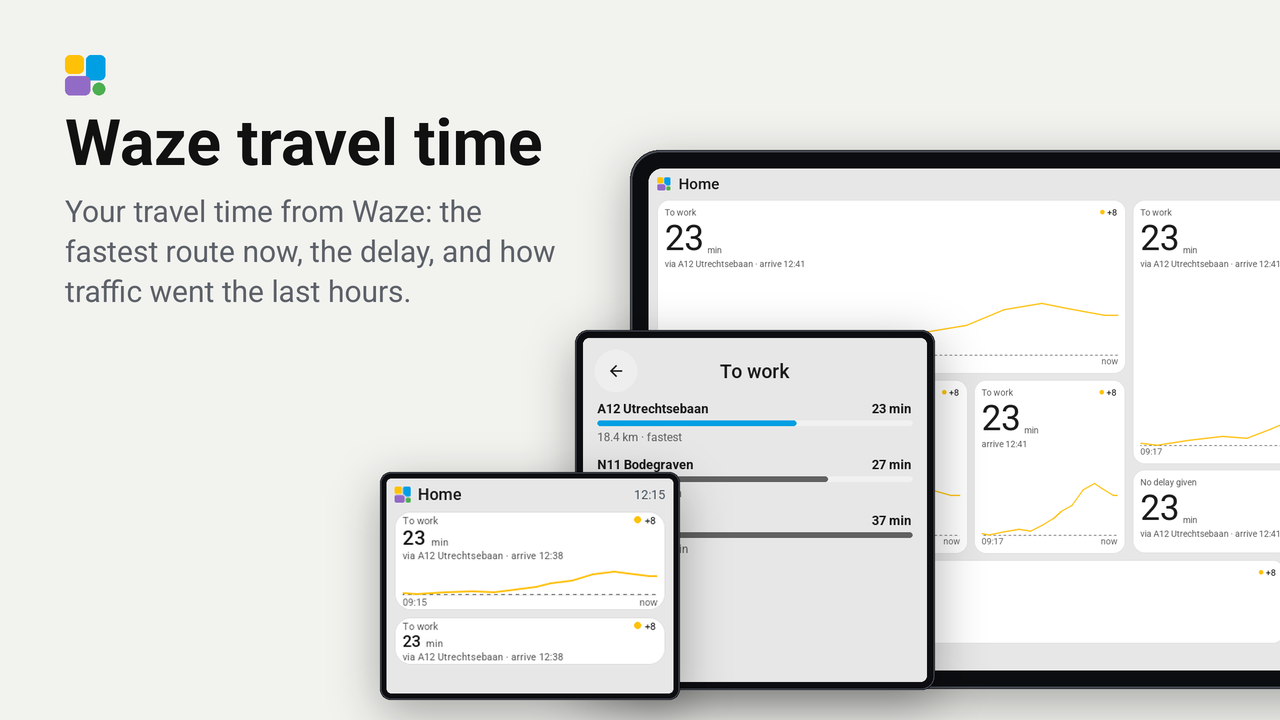
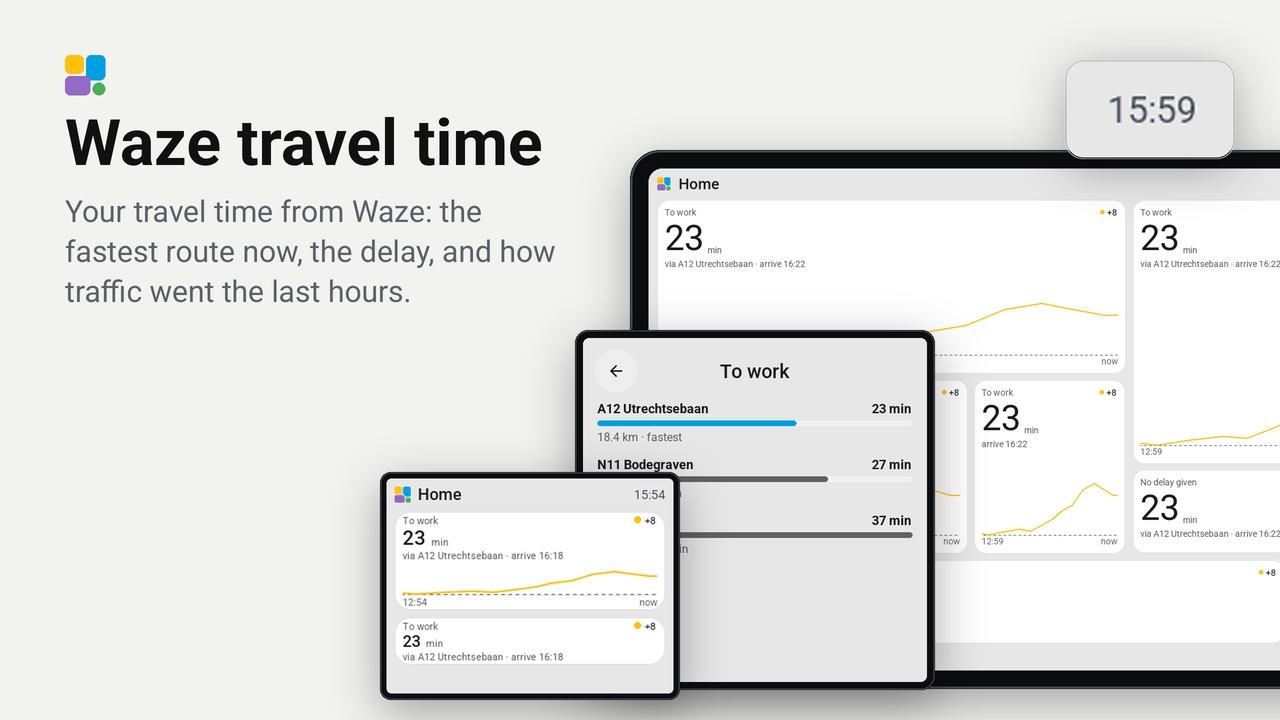
0.2.0: the travel time in the top bar
- A top bar item "Travel time": "23 min", or "23 min +8" above the usual
  time, the car green, amber or red. It reads the sensor chosen as the new
  input `sensor` through a homeassistant sensor of plugin.yaml.
- The usual time for it is a template number ("Waze usual time"), a
  setting in the app and a row on the screen's settings page.
- The card makes its rows in open() and fills them when Waze answers
  (FIRMWARE_API.md, Rules, 7).
- The card's fallback asks in the tile's region, not "eu".
- attributes: [cloud] with a privacy section: Home Assistant sends the
  trip's two ends to Waze.

diff --git a/components/waze_traveltime/waze_traveltime.cpp b/components/waze_traveltime/waze_traveltime.cpp
@@ -70,6 +70,8 @@ class TravelTile : public tessera::Tile, public Asker {
     hours_ = std::clamp(static_cast<int>(lroundf(c.options["hours"] | 3.0f)), 0, 8);  // 3 or 3.0, as the app kept it
     const char *region = c.options["region"] | "eu";
     snprintf(region_, sizeof region_, "%s", region);
+    // The sensor's region for a card opened for it, also before its two ends came.
+    if (!entity_.empty()) plugin_->remember(entity_.c_str(), nullptr, nullptr, region_);
 
     const int body = ui::line_height(Font::BODY);
     // The line takes the lower part of a tile of two rows or more, its times under it.
@@ -384,6 +386,7 @@ class TravelTile : public tessera::Tile, public Asker {
   lv_obj_t *name_{}, *delta_{}, *dot_{}, *number_{}, *unit_{}, *info_{}, *graph_{}, *from_{}, *now_{};
 };
 
+
 // ---- The card: every route Waze offers right now, fastest first ----
 class RoutesCard : public tessera::Card, public Asker {
  public:
@@ -397,20 +400,47 @@ class RoutesCard : public tessera::Card, public Asker {
     note_ = ui::text(parent_, Font::BODY_LARGE, theme::MUTED);
     lv_obj_set_width(note_, width_);
     ui::set_text(note_, plugin_->text("waiting"));
-    // The trip of the sensor it was opened for, as its tiles told the plugin; else it waits for the sensor in on_state.
+
+    // A row per route, as many as fit, made now and hidden until the answer fills them: its name and time, a bar as
+    // long as the time, the distance and the difference.
+    const int title = ui::line_height(Font::TITLE), body = ui::line_height(Font::BODY), bar = ui::px(8);
+    const int gap = ui::px(ui::large() ? 6 : 4), step = title + gap + bar + gap + body + ui::px(ui::large() ? 18 : 10);
+    fit_ = std::clamp((height_ + step - title - gap - bar - gap - body) / step, 1, ROWS);
+    for (int i = 0; i < fit_; ++i) {
+      Row &r = row_[i];
+      const int y = i * step;
+      r.time = ui::label(parent_, Font::TITLE, theme::INK);
+      lv_obj_set_pos(r.time, width_, y);
+      r.name = ui::label(parent_, Font::TITLE, theme::INK);
+      lv_obj_set_pos(r.name, 0, y);
+      r.track = ui::block(parent_, theme::TRACK);
+      lv_obj_set_size(r.track, width_, bar);
+      lv_obj_set_pos(r.track, 0, y + title + gap);
+      r.fill = ui::block(parent_, theme::MUTED);
+      lv_obj_set_size(r.fill, bar, bar);
+      lv_obj_set_pos(r.fill, 0, y + title + gap);
+      r.detail = ui::label(parent_, Font::BODY, theme::MUTED);
+      lv_obj_set_width(r.detail, width_);
+      lv_obj_set_pos(r.detail, 0, y + title + gap + bar + gap);
+      show(r, false);
+    }
+
+    // The trip of the sensor it was opened for, as its tiles told the plugin; else it waits for the sensor in on_state,
+    // with the region of the tile that showed the sensor.
     const Trip *trip = plugin_->trip(c.entity ? c.entity : "");
-    if (trip) ask(trip->origin, trip->destination, trip->region);
+    if (trip) snprintf(region_, sizeof region_, "%s", trip->region);
+    if (trip && *trip->origin && *trip->destination) ask(trip->origin, trip->destination);
   }
 
   // The tile it was opened from: its sensor's two ends, when the plugin did not know them yet.
   void on_state(JsonObjectConst data) override {
     if (asked_) return;
     const char *origin = data["attributes"]["origin"] | "", *destination = data["attributes"]["destination"] | "";
-    if (*origin && *destination) ask(origin, destination, "eu");
+    if (*origin && *destination) ask(origin, destination);
   }
 
   void on_theme() override {
-    for (int i = 0; i < rows_; ++i) {
+    for (int i = 0; i < fit_; ++i) {
       Row &r = row_[i];
       ui::set_color(r.name, theme::INK);
       ui::set_color(r.time, theme::INK);
@@ -421,7 +451,7 @@ class RoutesCard : public tessera::Card, public Asker {
 
   // The answer of waze_travel_time.get_travel_times: {"routes": [{"duration", "distance", "name", ...}]}.
   void answer(JsonObjectConst message) override {
-    if (rows_) return;
+    if (filled_) return;
     if (!(message["ok"] | false)) {
       ui::set_text(note_, plugin_->text("failed"));
       return;
@@ -456,66 +486,60 @@ class RoutesCard : public tessera::Card, public Asker {
     }
     std::sort(routes, routes + n, [](const Route &a, const Route &b) { return a.minutes < b.minutes; });
     lv_obj_add_flag(note_, LV_OBJ_FLAG_HIDDEN);
+    filled_ = true;
 
-    // A row per route, as many as fit: its name and time, a bar as long as the time, the distance and the difference.
-    const int title = ui::line_height(Font::TITLE), body = ui::line_height(Font::BODY), bar = ui::px(8);
-    const int gap = ui::px(ui::large() ? 6 : 4), step = title + gap + bar + gap + body + ui::px(ui::large() ? 18 : 10);
-    const int fit = std::max(1, std::min(n, (height_ + step - title - gap - bar - gap - body) / step));
+    const int gap = ui::px(ui::large() ? 6 : 4), bar = ui::px(8);
     const float slowest = routes[n - 1].minutes;
-    for (int i = 0; i < fit; ++i) {
+    for (int i = 0; i < std::min(n, fit_); ++i) {
       Row &r = row_[i];
       const Route &route = routes[i];
-      const int y = i * step;
       const std::string time = whole(route.minutes) + " " + plugin_->text("min");
       const int time_w = ui::text_width(time, Font::TITLE) + ui::px(2);
-      r.time = ui::label(parent_, Font::TITLE, theme::INK);
       lv_obj_set_width(r.time, time_w);
-      lv_obj_set_pos(r.time, width_ - time_w, y);
+      lv_obj_set_x(r.time, width_ - time_w);
       ui::set_text(r.time, time);
-      r.name = ui::label(parent_, Font::TITLE, theme::INK);
       lv_obj_set_width(r.name, std::max(1, width_ - time_w - gap * 2));
-      lv_obj_set_pos(r.name, 0, y);
       ui::set_text(r.name, route.name);
-      auto *track = ui::block(parent_, theme::TRACK);
-      lv_obj_set_size(track, width_, bar);
-      lv_obj_set_pos(track, 0, y + title + gap);
-      r.fill = ui::block(parent_, theme::MUTED);
-      lv_obj_set_size(r.fill, std::max(bar, static_cast<int>(width_ * route.minutes / slowest)), bar);
-      lv_obj_set_pos(r.fill, 0, y + title + gap);
+      lv_obj_set_width(r.fill, std::max(bar, static_cast<int>(width_ * route.minutes / slowest)));
       ui::set_fill(r.fill, i == 0 ? Tone::ACCENT : Tone::NORMAL, theme::MUTED);
       std::string detail = std::isfinite(route.distance) ? km(plugin_, route.distance) : "";
       const std::string how = i == 0 ? std::string(plugin_->text("fastest"))
                                      : tessera::fill(plugin_->text("slower"), "n",
                                                      whole(route.minutes - routes[0].minutes));
-      detail = detail.empty() ? how : detail + " · " + how;
-      r.detail = ui::label(parent_, Font::BODY, theme::MUTED);
-      lv_obj_set_width(r.detail, width_);
-      lv_obj_set_pos(r.detail, 0, y + title + gap + bar + gap);
-      ui::set_text(r.detail, detail);
-      rows_ = i + 1;
+      ui::set_text(r.detail, detail.empty() ? how : detail + " · " + how);
+      show(r, true);
     }
   }
 
  private:
-  void ask(const char *origin, const char *destination, const char *region) {
+  static constexpr int ROWS = 6;
+  struct Row {
+    lv_obj_t *name{}, *time{}, *track{}, *fill{}, *detail{};
+  };
+
+  static void show(Row &r, bool shown) {
+    for (lv_obj_t *part : {r.name, r.time, r.track, r.fill, r.detail}) {
+      if (shown) lv_obj_remove_flag(part, LV_OBJ_FLAG_HIDDEN);
+      else lv_obj_add_flag(part, LV_OBJ_FLAG_HIDDEN);
+    }
+  }
+
+  void ask(const char *origin, const char *destination) {
     asked_ = true;
     JsonDocument request;
     request["ask"] = "call_service:waze_travel_time.get_travel_times";
     request["data"]["origin"] = origin;
     request["data"]["destination"] = destination;
-    request["data"]["region"] = region;
+    request["data"]["region"] = region_;
     request["data"]["realtime"] = true;  // live traffic: the action's own default is without
     if (!plugin_->ask(this, request.as<JsonObjectConst>())) ui::set_text(note_, plugin_->text("failed"));
   }
 
-  static constexpr int ROWS = 6;
-  struct Row {
-    lv_obj_t *name{}, *time{}, *fill{}, *detail{};
-  };
   WazeTraveltime *plugin_;
   lv_obj_t *parent_{}, *note_{};
-  int width_ = 0, height_ = 0, rows_ = 0;
-  bool asked_ = false;
+  int width_ = 0, height_ = 0, fit_ = 0;
+  bool asked_ = false, filled_ = false;
+  char region_[4] = "eu";
   Row row_[ROWS];
 };
 
@@ -524,6 +548,39 @@ class RoutesCard : public tessera::Card, public Asker {
 void WazeTraveltime::setup() {
   add_tile("travel", [this]() { return new TravelTile(this); });
   add_card("routes", [this]() { return new RoutesCard(this); }, true);
+  add_bar_item("travel", [this]() { return bar(); });
+}
+
+// "23 min" in the top bar, or "23 min +8" when it is slower than the usual time, the car green, amber or red by the
+// delay. Nothing while the sensor has no travel time.
+tessera::BarItem WazeTraveltime::bar() const {
+  tessera::BarItem item;
+  if (!minutes_ || !minutes_->has_state() || !std::isfinite(minutes_->state) || minutes_->state < 0) return item;
+  item.shown = true;
+  item.icon = 0xF010B;  // car
+  const float minutes = minutes_->state;
+  item.text = tessera::fill(text("bar"), "n", whole(minutes));
+  const float usual = usual_ && std::isfinite(usual_->state) ? usual_->state : 0;
+  if (usual > 0) {
+    const float delay = minutes - usual;
+    item.tone = tone_of(delay);
+    if (lroundf(delay) >= 1)
+      item.text = tessera::fill(tessera::fill(text("bar_late"), "n", whole(minutes)).c_str(), "d", whole(delay));
+  }
+  return item;
+}
+
+bool WazeTraveltime::settings(tessera::SettingsPage &page) {
+  page.icon = "\U000F010B";
+  page.number(text("usual_time"), 0, 240, 1, text("min"),
+              [this]() { return usual_ && std::isfinite(usual_->state) ? static_cast<int>(usual_->state) : 0; },
+              [this](int value) {
+                if (!usual_) return;
+                auto call = usual_->make_call();
+                call.set_value(value);
+                call.perform();
+              });
+  return true;
 }
 
 uint32_t WazeTraveltime::ask(Asker *asker, JsonObjectConst request) {
@@ -545,17 +602,18 @@ void WazeTraveltime::remember(const char *entity, const char *origin, const char
   if (!slot) {
     slot = &trips_[next_trip_];
     next_trip_ = (next_trip_ + 1) % 4;
+    *slot = Trip{};
   }
   snprintf(slot->entity, sizeof slot->entity, "%s", entity);
-  snprintf(slot->origin, sizeof slot->origin, "%s", origin);
-  snprintf(slot->destination, sizeof slot->destination, "%s", destination);
+  if (origin) snprintf(slot->origin, sizeof slot->origin, "%s", origin);
+  if (destination) snprintf(slot->destination, sizeof slot->destination, "%s", destination);
   snprintf(slot->region, sizeof slot->region, "%s", region);
 }
 
 const Trip *WazeTraveltime::trip(const char *entity) const {
   if (!*entity) return nullptr;
   for (const Trip &t : trips_)
-    if (strcmp(t.entity, entity) == 0 && *t.origin) return &t;
+    if (strcmp(t.entity, entity) == 0) return &t;
   return nullptr;
 }
 

diff --git a/components/waze_traveltime/waze_traveltime.h b/components/waze_traveltime/waze_traveltime.h
@@ -1,5 +1,7 @@
 #pragma once
 #include "esphome/core/component.h"
+#include "esphome/components/number/number.h"
+#include "esphome/components/sensor/sensor.h"
 #include "esphome/components/smart_display/plugin_api.h"
 
 namespace esphome::waze_traveltime {
@@ -10,8 +12,8 @@ class Asker {
   virtual void answer(JsonObjectConst message) = 0;
 };
 
-// The trip of a Waze sensor, for the card opened for it: Waze's two ends as the sensor has them ("52.09,5.12") and
-// the region of the tile that showed it. Fixed fields, so it needs no memory of its own.
+// The trip of a Waze sensor, for the card opened for it: the region of the tile that shows it, and Waze's two ends as
+// the sensor has them ("52.09,5.12") once they came. Fixed fields, so it needs no memory of its own.
 struct Trip {
   char entity[64] = "";
   char origin[64] = "";
@@ -19,24 +21,34 @@ struct Trip {
   char region[4] = "eu";
 };
 
-// The plugin: the tile "travel" of a Waze Travel Time sensor and the card "routes".
+// The plugin: the tile "travel" of a Waze Travel Time sensor, the card "routes", the top bar's item "travel" and a row
+// for the usual time on the screen's settings page.
 class WazeTraveltime : public Component, public tessera::Plugin {
  public:
   void setup() override;
   float get_setup_priority() const override { return setup_priority::DATA; }
+  bool settings(tessera::SettingsPage &page) override;
   void on_message(JsonObjectConst message) override;
+
+  void set_minutes(sensor::Sensor *s) { minutes_ = s; }
+  void set_usual(number::Number *n) { usual_ = n; }
 
   // Asks the app, and hands the answer to `asker` when it comes; 0 when it could not be sent.
   uint32_t ask(Asker *asker, JsonObjectConst request);
   // An asker that goes away: its answer, when it still comes, goes nowhere.
   void forget(Asker *asker);
 
-  // The tiles tell the plugin each sensor's trip as it comes, so a card opened for that sensor (from the tile, or a
-  // tile of another page) knows where to ask for. A few sensors at once; the oldest makes room.
+  // The tiles tell the plugin each sensor's region when they are made and its two ends as they come, so a card opened
+  // for that sensor knows where to ask for. A few sensors at once; the oldest makes room. `origin` and `destination`
+  // may be null: the region alone.
   void remember(const char *entity, const char *origin, const char *destination, const char *region);
   const Trip *trip(const char *entity) const;
 
  protected:
+  tessera::BarItem bar() const;
+
+  sensor::Sensor *minutes_{};
+  number::Number *usual_{};
   Trip trips_[4];
   int next_trip_ = 0;
   struct Waiting {

diff --git a/components/waze_traveltime/__init__.py b/components/waze_traveltime/__init__.py
@@ -1,20 +1,31 @@
 """Waze travel time: the ESPHome side. register_plugin() reads the id, version, tile memory and the screen's texts from
-the manifest and translations/ beside this folder; the tile and the card are in waze_traveltime.cpp."""
+the manifest and translations/ beside this folder; the tile, the card and the top bar's item are in waze_traveltime.cpp.
+The item reads two entities of plugin.yaml: the travel time from Home Assistant and the usual time."""
 import esphome.codegen as cg
 import esphome.config_validation as cv
-from esphome.components import smart_display
+from esphome.components import number, sensor, smart_display
 from esphome.const import CONF_ID
 
-# The core component every Tessera screen has; the plugin API lives in it.
 DEPENDENCIES = ["smart_display"]
+
+CONF_MINUTES = "minutes"
+CONF_USUAL = "usual"
 
 waze_traveltime_ns = cg.esphome_ns.namespace("waze_traveltime")
 WazeTraveltime = waze_traveltime_ns.class_("WazeTraveltime", cg.Component)
 
-CONFIG_SCHEMA = cv.Schema({cv.GenerateID(): cv.declare_id(WazeTraveltime)}).extend(cv.COMPONENT_SCHEMA)
+CONFIG_SCHEMA = cv.Schema(
+    {
+        cv.GenerateID(): cv.declare_id(WazeTraveltime),
+        cv.Required(CONF_MINUTES): cv.use_id(sensor.Sensor),
+        cv.Required(CONF_USUAL): cv.use_id(number.Number),
+    }
+).extend(cv.COMPONENT_SCHEMA)
 
 
 async def to_code(config):
     var = cg.new_Pvariable(config[CONF_ID])
     await cg.register_component(var, config)
     await smart_display.register_plugin(var, __file__)
+    cg.add(var.set_minutes(await cg.get_variable(config[CONF_MINUTES])))
+    cg.add(var.set_usual(await cg.get_variable(config[CONF_USUAL])))

diff --git a/README.md b/README.md
@@ -14,13 +14,17 @@ integration. No key, no account and no web service of its own: Home Assistant as
    `sensor.home_to_work`. Keep the **Recorder** on for it (it is by default): the line on the tile comes from its
    history.
 2. In Tessera, open **Plugins** and choose **Waze travel time**, or choose **Add with a link** and paste
-   `https://github.com/Heronimonimo/tessera-waze-traveltime`. Tick your screens; each builds once with the plugin.
+   `https://github.com/Heronimonimo/tessera-waze-traveltime`. Tick your screens and choose the **Waze sensor for the
+   top bar** (asked once per screen, also when you don't use the top bar); each screen builds once with the plugin.
 3. Put the tile **Travel time** on a page, at any size from 1x1 to 4x4, and choose the Waze sensor in its inspector.
 4. In the inspector, set:
    - **Usual travel time**: your time without traffic, in minutes. The tile then shows the delay ("+8") in green,
      amber or red, and the line gets a dashed line at that time. Leave it at 0 for no delay.
    - **Hours on the line**: how far back the line goes, 1 to 8 hours (0 for no line).
    - **Waze region**: the same region as your Waze Travel Time integration, for the routes on the card.
+5. Optional: add **Travel time** to a page's top bar (Top bar, Add, From plugins). It shows the sensor you chose in
+   step 2. For a coloured car, set the usual time: hold the top bar, then **Settings**, **Plugins**, **Waze travel
+   time**, **Usual travel time**, or the entity **Waze usual time** of the screen in Home Assistant.
 
 ## On the screen
 
@@ -30,6 +34,9 @@ integration. No key, no account and no web service of its own: Home Assistant as
   without a usual time), and the usual time dashed.
 - **Tap**: the card with the routes Waze offers now, as many as fit (up to six), each with its time, a bar, its distance and how much slower it is
   than the fastest.
+- **Top bar**: "23 min" beside the page's name, or "23 min +8" when it is slower than the usual time, with the car in
+  green, amber or red by the delay (grey without a usual time). Hidden while the sensor has no travel time. A page can
+  show its icon alone.
 
 ## Good to know
 
@@ -45,9 +52,20 @@ integration. No key, no account and no web service of its own: Home Assistant as
 - Tried on Tessera's preview bench (the CYD, the Guition 4-inch, the Waveshare 4.3-inch standing up and the Guition
   10.1-inch, light and dark), not yet on a real screen. Found something wrong? Open an issue.
 
+## Privacy
+
+The plugin itself reaches nothing outside your home: the screen talks to Home Assistant only. Home Assistant's Waze
+Travel Time integration asks Waze's live map for the travel time, every 5 minutes, and once more each time the card
+opens. Waze then sees the two ends of your trip (often your home and your work, as coordinates) and the address of your
+Home Assistant. No account, key or other personal data is sent. What Waze does with it is in
+[Waze's privacy policy](https://www.waze.com/legal/privacy).
+
 ## How it works
 
 - `tessera-plugin.yaml`: a tile of a sensor with the attributes `route`, `distance`, `origin` and `destination`, a card,
-  and the two Home Assistant commands it may ask, with the history mapped to two lists of numbers.
-- `components/waze_traveltime/`: the tile (the line is drawn on the screen from the samples), the card, and the plugin
-  that hands each answer to the tile or card that asked.
+  a top bar item, the input that chooses the top bar's sensor, the setting of its usual time, and the two Home Assistant
+  commands it may ask, with the history mapped to two lists of numbers.
+- `plugin.yaml`: a `homeassistant` sensor that reads the chosen sensor for the top bar, and the usual time as a
+  template number.
+- `components/waze_traveltime/`: the tile (the line is drawn on the screen from the samples), the card, the top bar
+  item, the settings row, and the plugin that hands each answer to the tile or card that asked.

diff --git a/CHANGELOG.md b/CHANGELOG.md
@@ -1,5 +1,15 @@
 # Changelog
 
+## 0.2.0
+- New: the travel time in the top bar. Add **Travel time** to a page's top bar (Top bar, Add, From plugins): "23 min",
+  or "23 min +8" when it is slower than usual, with the car in green, amber or red.
+- Adding or updating the plugin now asks for the **Waze sensor for the top bar** once per screen.
+- The top bar's usual time is a setting of the screen: **Waze usual time** in Home Assistant, and on the screen's
+  settings page under Plugins.
+- The card asks Waze in the tile's own region in every case.
+- The Plugins page now says the plugin uses a service outside the home (Waze, through Home Assistant), with a privacy
+  note in the README.
+
 ## 0.1.0
 - First version: a tile of a Waze Travel Time sensor with the travel time, the delay against your usual time, the
   route, when you arrive and a line of the last hours from the sensor's history.
